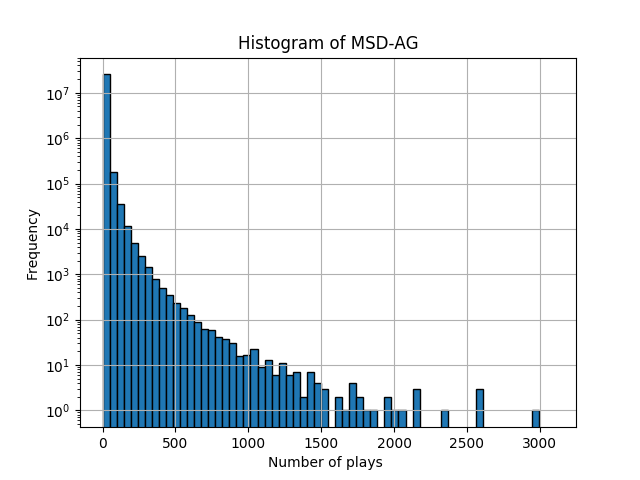
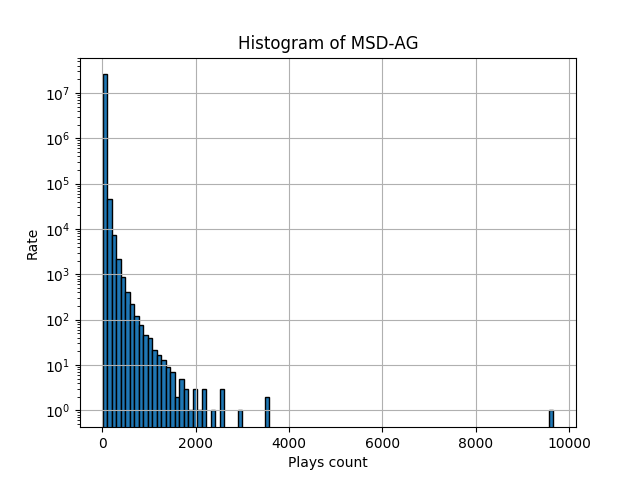
add 2 plots

diff --git a/main.py b/main.py
@@ -13,7 +13,7 @@ from data_visualization.view_plays_freq import view_plays_freq
 from data_visualization.view_metrics import view_metrics
 
 
-fakeDataset = True
+fakeDataset = False
 datasetPath = './fake_dataset/' if fakeDataset else './dataset/'
 resultsPath = './fake_results/' if fakeDataset else './results/'
 
@@ -34,7 +34,7 @@ methods = {
 }
 
 
-visualizeDataset = False
+visualizeDataset = True
 
 if not fakeDataset: get_dataset()
 
@@ -45,12 +45,12 @@ if visualizeDataset:
     view_plays_freq(datasetPath,False)
     view_plays_freq(datasetPath)
 
-scale_data(datasetPath)
-read_bios(datasetPath)
-generate_model(datasetPath)
-generate_tfIdfRecommender(datasetPath)
+# scale_data(datasetPath)
+# read_bios(datasetPath)
+# generate_model(datasetPath)
+# generate_tfIdfRecommender(datasetPath)
 
-print('evaluate!')
-evaluate(datasetPath,resultsPath,kk=kk, metrics=metrics, methods=methods)
+# print('evaluate!')
+# evaluate(datasetPath,resultsPath,kk=kk, metrics=metrics, methods=methods)
 
-view_metrics(resultsPath, kk=kk, metrics=metrics,methods=methods, showPlots=False)
+# view_metrics(resultsPath, kk=kk, metrics=metrics,methods=methods, showPlots=False)
